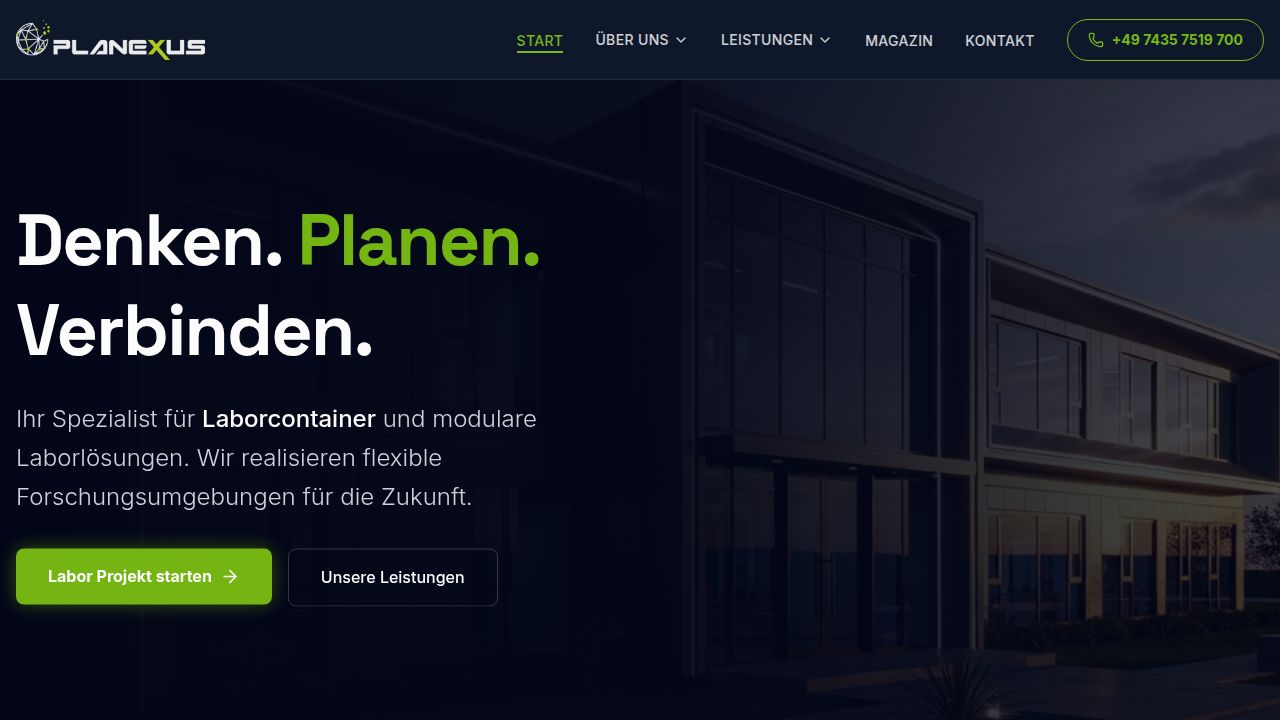
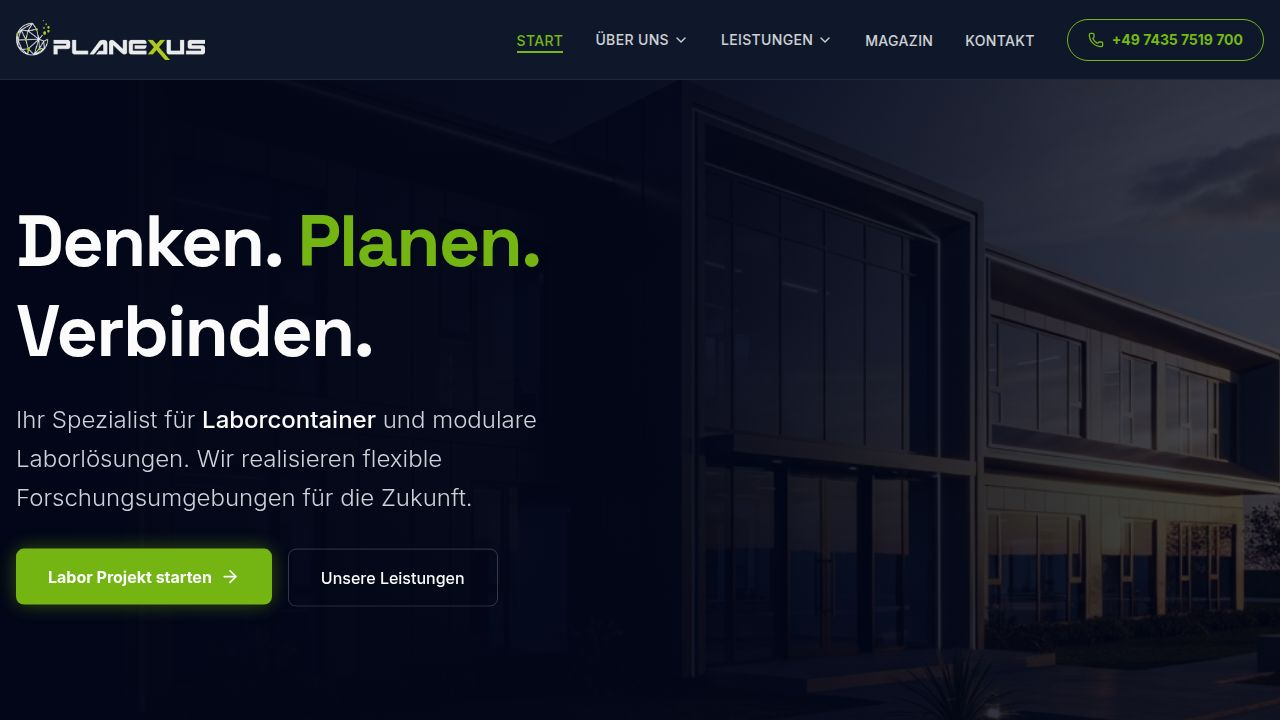
Add interactive liquid distortion effect to the hero image
Replaced the static hero image with a new `LiquidHero` component, implementing a canvas-based liquid distortion effect triggered by mouse movement. Removed unused motion-related imports and mouse event handling from `home.tsx`.

Replit-Commit-Author: Agent
Replit-Commit-Session-Id: fa74fec4-5bf0-4c41-8153-e1e5d400dad8
Replit-Commit-Checkpoint-Type: full_checkpoint
Replit-Commit-Event-Id: 374a1c53-325d-4eb1-b31f-95b4bdfdcd40
Replit-Commit-Screenshot-Url: https://storage.googleapis.com/screenshot-production-us-central1/fd76aba6-7a99-4c65-995d-a4fd8c5b059b/fa74fec4-5bf0-4c41-8153-e1e5d400dad8/mmIPXQr
Replit-Helium-Checkpoint-Created: true

diff --git a/client/src/components/LiquidHero.tsx b/client/src/components/LiquidHero.tsx
@@ -1,0 +1,193 @@
+import { useEffect, useRef, useState } from "react";
+
+interface LiquidHeroProps {
+  imageSrc: string;
+  alt: string;
+  className?: string;
+}
+
+export function LiquidHero({ imageSrc, alt, className = "" }: LiquidHeroProps) {
+  const canvasRef = useRef<HTMLCanvasElement>(null);
+  const imageRef = useRef<HTMLImageElement | null>(null);
+  const animationRef = useRef<number>(0);
+  const [isLoaded, setIsLoaded] = useState(false);
+  
+  const mouseRef = useRef({ x: 0, y: 0, isOver: false });
+  const ripples = useRef<Array<{ x: number; y: number; radius: number; strength: number; life: number }>>([]);
+  const lastRippleTime = useRef(0);
+
+  useEffect(() => {
+    const canvas = canvasRef.current;
+    if (!canvas) return;
+
+    const ctx = canvas.getContext("2d");
+    if (!ctx) return;
+
+    const img = new Image();
+    img.crossOrigin = "anonymous";
+    img.src = imageSrc;
+    
+    img.onload = () => {
+      imageRef.current = img;
+      setIsLoaded(true);
+      resizeCanvas();
+    };
+
+    function resizeCanvas() {
+      if (!canvas) return;
+      canvas.width = canvas.offsetWidth;
+      canvas.height = canvas.offsetHeight;
+    }
+
+    window.addEventListener("resize", resizeCanvas);
+
+    function addRipple(x: number, y: number) {
+      const now = Date.now();
+      if (now - lastRippleTime.current < 50) return;
+      lastRippleTime.current = now;
+      
+      ripples.current.push({
+        x,
+        y,
+        radius: 0,
+        strength: 30,
+        life: 1
+      });
+      
+      if (ripples.current.length > 10) {
+        ripples.current.shift();
+      }
+    }
+
+    function handleMouseMove(e: MouseEvent) {
+      const rect = canvas!.getBoundingClientRect();
+      mouseRef.current.x = e.clientX - rect.left;
+      mouseRef.current.y = e.clientY - rect.top;
+      mouseRef.current.isOver = true;
+      addRipple(mouseRef.current.x, mouseRef.current.y);
+    }
+
+    function handleMouseLeave() {
+      mouseRef.current.isOver = false;
+    }
+
+    canvas.addEventListener("mousemove", handleMouseMove);
+    canvas.addEventListener("mouseleave", handleMouseLeave);
+
+    function render() {
+      if (!ctx || !canvas || !imageRef.current) {
+        animationRef.current = requestAnimationFrame(render);
+        return;
+      }
+
+      const img = imageRef.current;
+      const w = canvas.width;
+      const h = canvas.height;
+
+      ctx.clearRect(0, 0, w, h);
+
+      const imgRatio = img.width / img.height;
+      const canvasRatio = w / h;
+      
+      let drawWidth, drawHeight, offsetX, offsetY;
+      
+      if (canvasRatio > imgRatio) {
+        drawWidth = w;
+        drawHeight = w / imgRatio;
+        offsetX = 0;
+        offsetY = (h - drawHeight) / 2;
+      } else {
+        drawHeight = h;
+        drawWidth = h * imgRatio;
+        offsetX = (w - drawWidth) / 2;
+        offsetY = 0;
+      }
+
+      ctx.drawImage(img, offsetX, offsetY, drawWidth, drawHeight);
+
+      if (ripples.current.length > 0) {
+        const imageData = ctx.getImageData(0, 0, w, h);
+        const data = imageData.data;
+        const originalData = new Uint8ClampedArray(data);
+
+        for (const ripple of ripples.current) {
+          const maxRadius = ripple.radius + 50;
+          const minX = Math.max(0, Math.floor(ripple.x - maxRadius));
+          const maxX = Math.min(w, Math.ceil(ripple.x + maxRadius));
+          const minY = Math.max(0, Math.floor(ripple.y - maxRadius));
+          const maxY = Math.min(h, Math.ceil(ripple.y + maxRadius));
+
+          for (let py = minY; py < maxY; py++) {
+            for (let px = minX; px < maxX; px++) {
+              const dx = px - ripple.x;
+              const dy = py - ripple.y;
+              const dist = Math.sqrt(dx * dx + dy * dy);
+              
+              const waveWidth = 30;
+              const waveDist = Math.abs(dist - ripple.radius);
+              
+              if (waveDist < waveWidth) {
+                const waveStrength = (1 - waveDist / waveWidth) * ripple.strength * ripple.life;
+                const angle = Math.atan2(dy, dx);
+                const wave = Math.sin((dist - ripple.radius) * 0.3) * waveStrength;
+                
+                const sourceX = Math.round(px + Math.cos(angle) * wave);
+                const sourceY = Math.round(py + Math.sin(angle) * wave);
+                
+                if (sourceX >= 0 && sourceX < w && sourceY >= 0 && sourceY < h) {
+                  const targetIdx = (py * w + px) * 4;
+                  const sourceIdx = (sourceY * w + sourceX) * 4;
+                  
+                  data[targetIdx] = originalData[sourceIdx];
+                  data[targetIdx + 1] = originalData[sourceIdx + 1];
+                  data[targetIdx + 2] = originalData[sourceIdx + 2];
+                }
+              }
+            }
+          }
+        }
+
+        ctx.putImageData(imageData, 0, 0);
+      }
+
+      for (let i = ripples.current.length - 1; i >= 0; i--) {
+        ripples.current[i].radius += 4;
+        ripples.current[i].life -= 0.015;
+        
+        if (ripples.current[i].life <= 0) {
+          ripples.current.splice(i, 1);
+        }
+      }
+
+      animationRef.current = requestAnimationFrame(render);
+    }
+
+    render();
+
+    return () => {
+      window.removeEventListener("resize", resizeCanvas);
+      canvas.removeEventListener("mousemove", handleMouseMove);
+      canvas.removeEventListener("mouseleave", handleMouseLeave);
+      cancelAnimationFrame(animationRef.current);
+    };
+  }, [imageSrc]);
+
+  return (
+    <div className={`relative ${className}`}>
+      <canvas
+        ref={canvasRef}
+        className="w-full h-full"
+        style={{ display: isLoaded ? "block" : "none" }}
+      />
+      {!isLoaded && (
+        <img 
+          src={imageSrc} 
+          alt={alt}
+          className="w-full h-full object-cover"
+          loading="eager"
+        />
+      )}
+      <span className="sr-only">{alt}</span>
+    </div>
+  );
+}

diff --git a/client/src/pages/home.tsx b/client/src/pages/home.tsx
@@ -1,52 +1,30 @@
-import { motion, useScroll, useTransform, useMotionValue, useSpring } from "framer-motion";
+import { motion } from "framer-motion";
 import { ArrowRight, Box, CheckCircle2, ChevronRight, Layers, Layout, ShieldCheck, Microscope, FlaskConical, Leaf } from "lucide-react";
 import { Link } from "wouter";
 import heroBg from "@assets/generated_images/modern_laboratory_container_exterior.png";
 import blueprintBg from "@assets/generated_images/technical_blueprint_abstract_background.png";
-import { useEffect } from "react";
 import { SEO } from "@/components/SEO";
+import { LiquidHero } from "@/components/LiquidHero";
 
 export default function Home() {
-  const x = useMotionValue(0);
-  const y = useMotionValue(0);
-
-  const mouseX = useSpring(x, { stiffness: 50, damping: 20 });
-  const mouseY = useSpring(y, { stiffness: 50, damping: 20 });
-
-  function handleMouseMove(event: React.MouseEvent) {
-    const { clientX, clientY } = event;
-    const { innerWidth, innerHeight } = window;
-    // Calculate percentage from center
-    const xPct = (clientX / innerWidth - 0.5) * 2; // -1 to 1
-    const yPct = (clientY / innerHeight - 0.5) * 2; // -1 to 1
-    
-    // Move slightly (e.g. 20px max)
-    x.set(xPct * -20);
-    y.set(yPct * -20);
-  }
-
   return (
-    <div className="min-h-screen bg-background text-foreground" onMouseMove={handleMouseMove}>
+    <div className="min-h-screen bg-background text-foreground">
       <SEO 
         title="Laborcontainer & Modulbau Labor Spezialist"
         description="Planexus ist Ihr Experte für Laborcontainer, mobile Labore und Modulbau. Über 10 Jahre Erfahrung in Laborplanung, BSL-2/BSL-3 Labore und Containerbau."
         canonical="/"
       />
-      {/* Hero Section - Dark & Impactful (As requested "Hero lassen wir so") */}
+      {/* Hero Section - Dark & Impactful with Liquid Distortion Effect */}
       <section className="relative h-screen flex items-center overflow-hidden bg-slate-950 text-white">
-        {/* Background Image with Overlay and Parallax */}
-        <motion.div 
-            className="absolute inset-0 z-0"
-            style={{ x: mouseX, y: mouseY, scale: 1.05 }} // Scale up slightly to avoid edges showing
-        >
-          <img 
-            src={heroBg} 
-            alt="Moderner Laborcontainer Außenansicht" 
-            className="w-full h-full object-cover"
-            loading="eager"
+        {/* Background Image with Liquid Distortion Effect */}
+        <div className="absolute inset-0 z-0">
+          <LiquidHero 
+            imageSrc={heroBg} 
+            alt="Moderner Laborcontainer Außenansicht"
+            className="w-full h-full"
           />
-          <div className="absolute inset-0 bg-slate-950/80 md:bg-slate-950/70 bg-gradient-to-r from-slate-950 via-slate-950/80 to-transparent" />
-        </motion.div>
+          <div className="absolute inset-0 bg-slate-950/80 md:bg-slate-950/70 bg-gradient-to-r from-slate-950 via-slate-950/80 to-transparent pointer-events-none" />
+        </div>
 
         <div className="container mx-auto px-4 relative z-10 pt-20">
           <motion.div 
